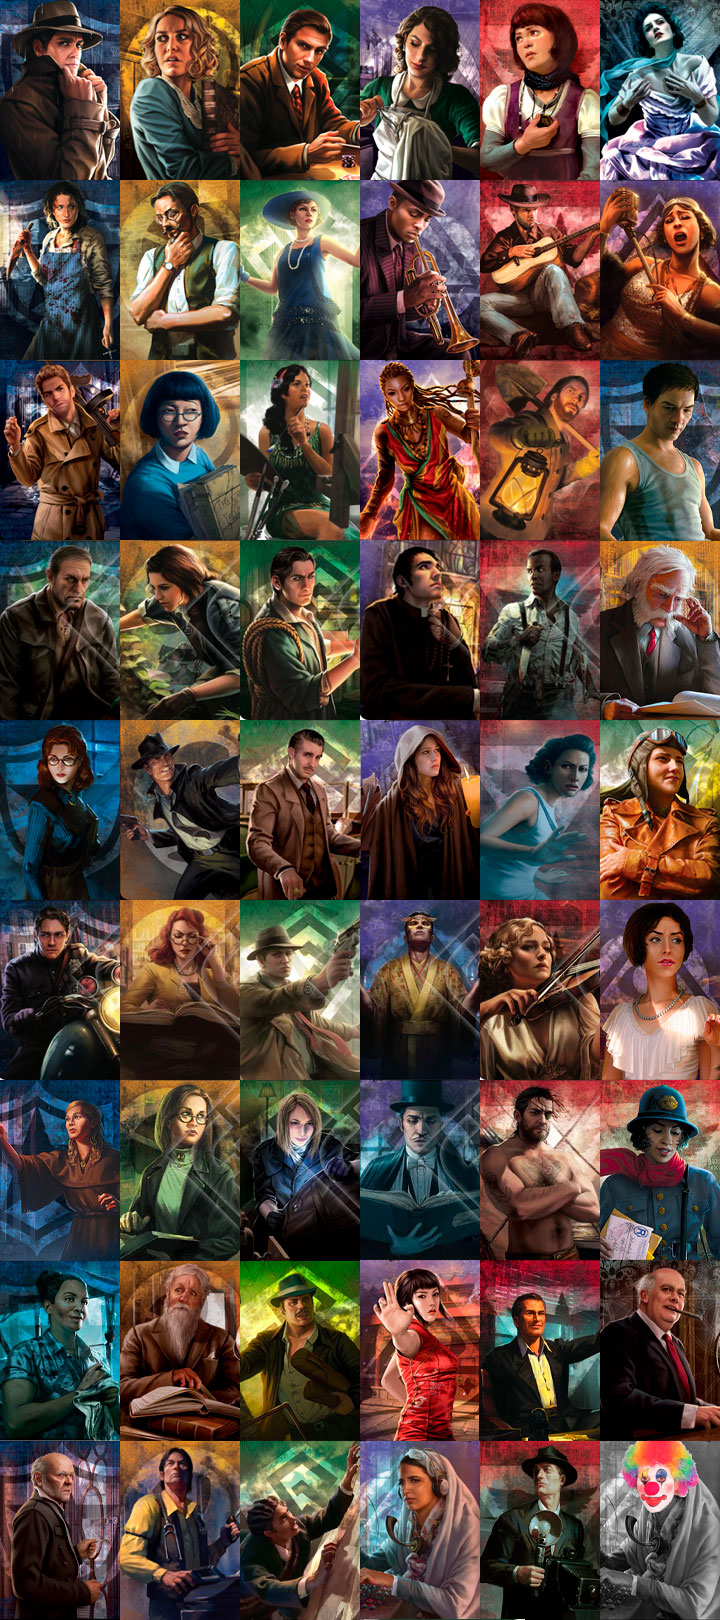
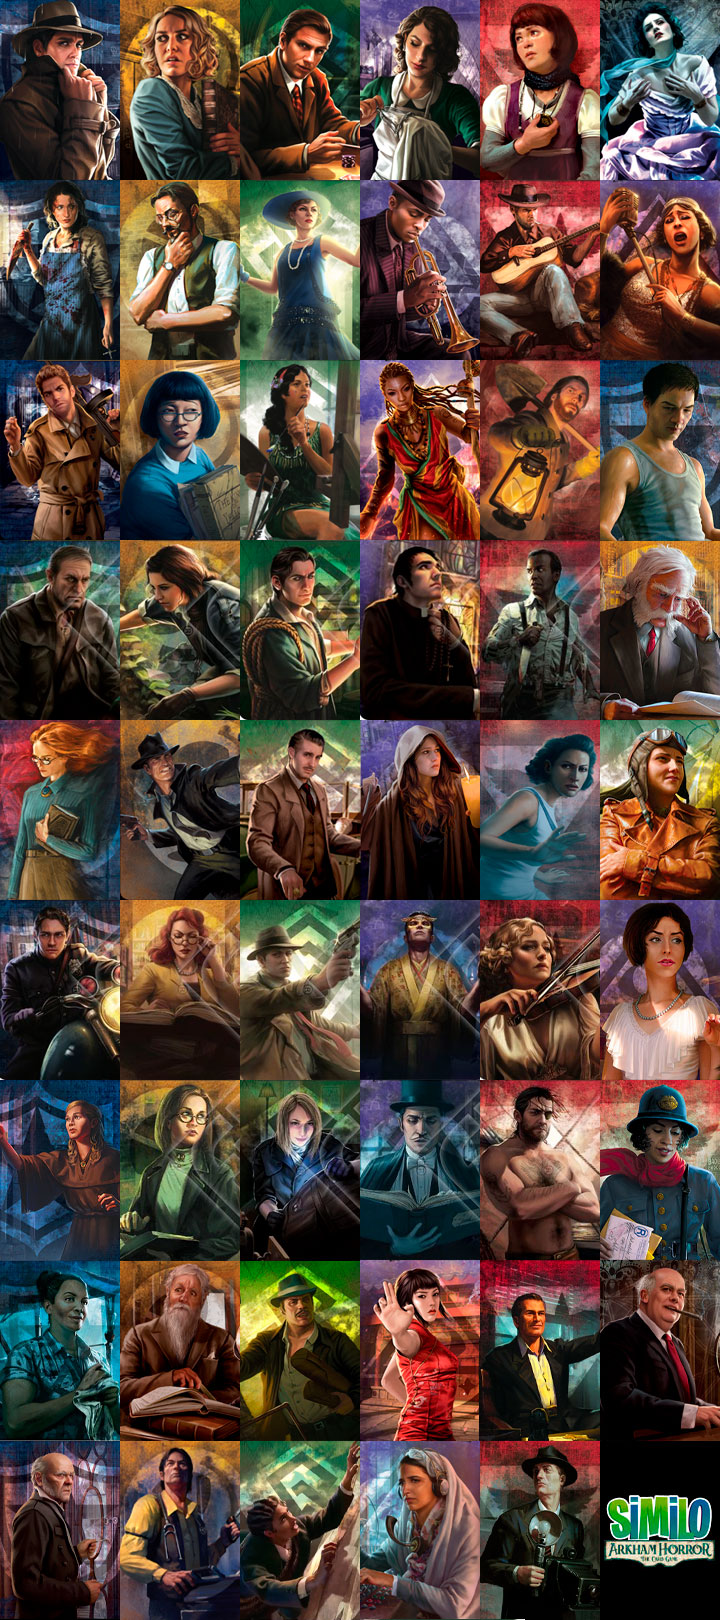
all investigators, - joker, some adjustments

Changed region(s): [[0.825, 0.8642, 1.0, 1.0], [0.0, 0.4321, 0.1833, 0.5556]]

diff --git a/script.js b/script.js
@@ -13,41 +13,53 @@ const svarschiki = [
     {name:'jim', posx: '-360px', posy: '-180px'},
     {name:'pete', posx: '-480px', posy: '-180px'},
 
-    {name:'mark', posx: '0px', posy: '-360px'},
-    {name:'mihn', posx: '-120px', posy: '-360px'},
-    {name:'sefina', posx: '-240px', posy: '-360px'},
-    {name:'akachi', posx: '-360px', posy: '-360px'},
-    {name:'william', posx: '-480px', posy: '-360px'},
+    {name:'mark', posx: '0px', posy: '-361px'},
+    {name:'mihn', posx: '-120px', posy: '-361px'},
+    {name:'sefina', posx: '-240px', posy: '-361px'},
+    {name:'akachi', posx: '-360px', posy: '-361px'},
+    {name:'william', posx: '-480px', posy: '-361px'},
     {name:'lola', posx: '-600px', posy: '0px'},
     
-    {name:'leo', posx: '0px', posy: '-540px'},
-    {name:'ursula', posx: '-120px', posy: '-540px'},
-    {name:'finn', posx: '-240px', posy: '-540px'},
-    {name:'mateo', posx: '-360px', posy: '-540px'},
-    {name:'calvin', posx: '-480px', posy: '-540px'},
+    {name:'leo', posx: '0px', posy: '-541px'},
+    {name:'ursula', posx: '-120px', posy: '-541px'},
+    {name:'finn', posx: '-240px', posy: '-541px'},
+    {name:'mateo', posx: '-360px', posy: '-541px'},
+    {name:'calvin', posx: '-480px', posy: '-541px'},
 
     {name:'carolyn', posx: '0px', posy: '-720px'},
     {name:'joe', posx: '-120px', posy: '-720px'},
     {name:'preston', posx: '-240px', posy: '-720px'},
     {name:'diana', posx: '-360px', posy: '-720px'},
     {name:'rita', posx: '-480px', posy: '-720px'},
-    {name:'marie', posx: '-600px', posy: '-180px'},
+    {name:'marie', posx: '-600px', posy: '-181px'},
     
-    {name:'daniela', posx: '0px', posy: '-1260px'},
-    {name:'norman', posx: '-120px', posy: '-1260px'},
-    {name:'monterey', posx: '-240px', posy: '-1260px'},
-    {name:'lily', posx: '-360px', posy: '-1260px'},
-    {name:'bob', posx: '-480px', posy: '-1260px'},
+    {name:'tommy', posx: '0px', posy: '-901px'},
+    {name:'mandy', posx: '-120px', posy: '-901px'},
+    {name:'tony', posx: '-240px', posy: '-901px'},
+    {name:'luke', posx: '-360px', posy: '-901px'},
+    {name:'patrice', posx: '-480px', posy: '-901px'},
         
-    {name:'carson', posx: '0px', posy: '-1440px'},
-    {name:'vincent', posx: '-120px', posy: '-1440px'},
-    {name:'kymani', posx: '-240px', posy: '-1440px'},
-    {name:'amina', posx: '-360px', posy: '-1440px'},
-    {name:'darell', posx: '-480px', posy: '-1440px'},
+    {name:'mary', posx: '0px', posy: '-1081px'},
+    {name:'amanda', posx: '-120px', posy: '-1081px'},
+    {name:'trish', posx: '-240px', posy: '-1081px'},
+    {name:'dexter', posx: '-360px', posy: '-1081px'},
+    {name:'silas', posx: '-480px', posy: '-1081px'},
+
+    {name:'daniela', posx: '0px', posy: '-1261px'},
+    {name:'norman', posx: '-120px', posy: '-1261px'},
+    {name:'monterey', posx: '-240px', posy: '-1261px'},
+    {name:'lily', posx: '-360px', posy: '-1261px'},
+    {name:'bob', posx: '-480px', posy: '-1261px'},
+        
+    {name:'carson', posx: '0px', posy: '-1441px'},
+    {name:'vincent', posx: '-120px', posy: '-1441px'},
+    {name:'kymani', posx: '-240px', posy: '-1441px'},
+    {name:'amina', posx: '-360px', posy: '-1441px'},
+    {name:'darell', posx: '-480px', posy: '-1441px'},
     {name:'charley', posx: '-600px', posy: '-1260px'},
 
     {name:'nathaniel', posx: '-600px', posy: '-360px'},
-    {name:'harvey', posx: '-600px', posy: '-540px'},
+    {name:'harvey', posx: '-600px', posy: '-541px'},
     {name:'winifred', posx: '-600px', posy: '-720px'},
     {name:'jacqueline', posx: '-600px', posy: '-900px'},
     {name:'stella', posx: '-600px', posy: '-1080px'},
@@ -58,7 +70,7 @@ const handCards = [];
 const hintCards = [];
 let counterNumber = 0;
 const HIDDEN_POS_X = '-600px';
-const HIDDEN_POS_Y = '-1440px';
+const HIDDEN_POS_Y = '-1441px';
 const IMAGE = `url('./pic/investigators.jpg`;
 // игровые зоны
 const field = document.getElementById('field');

diff --git a/style.css b/style.css
@@ -42,7 +42,7 @@ h2 {
 /* ИГРОВАЯ ЗОНА */
 .play-area {
     padding: 20px 30px;
-    background-color: darkslategrey;
+    background-color: #095257;
 }
 .play-cards {
     display: flex;
@@ -62,10 +62,10 @@ h2 {
 }
 #counter {
     width: 50px;
-    font-size: 60px;
-    font-weight: bold;
+    font-size: 90px;
+    font-weight: 800;
     color: white;
-    text-shadow:black 2px 2px;
+    text-shadow:black 3px 3px;
     text-align: center;
 }
 #hints {
@@ -104,16 +104,21 @@ h2 {
     height: 180px;
     background-color: white;
     background-size: auto;
+    border: 2px solid black;
+    box-sizing: border-box;
     border-radius: 7%;
+    box-shadow: 8px 8px 8px 0px rgba(0, 0, 0, 0.7);
 }
 .hint-card {
     margin: 0 20px;
 }
 .nemesis,
 .wrong-card {
-    box-sizing: border-box;
-    border: solid red 5px;
+    border: none;
+    outline: 10px ridge greenyellow;
+    z-index: 10;
 }
 .rotated {
     transform: rotate(90deg);
+    box-shadow: 8px -8px 8px 0px rgba(0, 0, 0, 0.7);
 }
